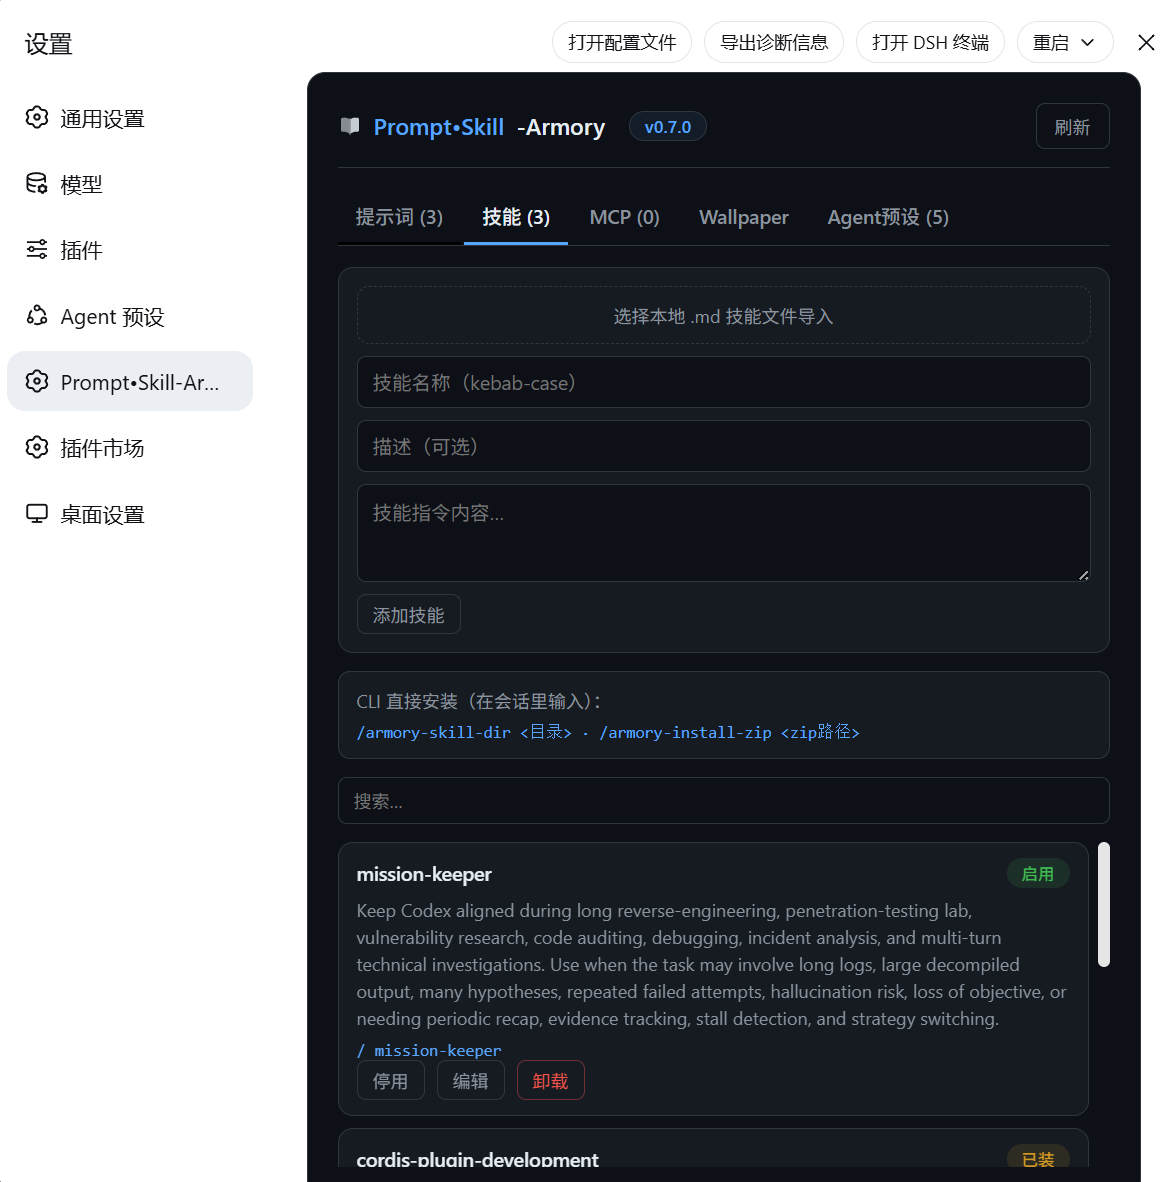
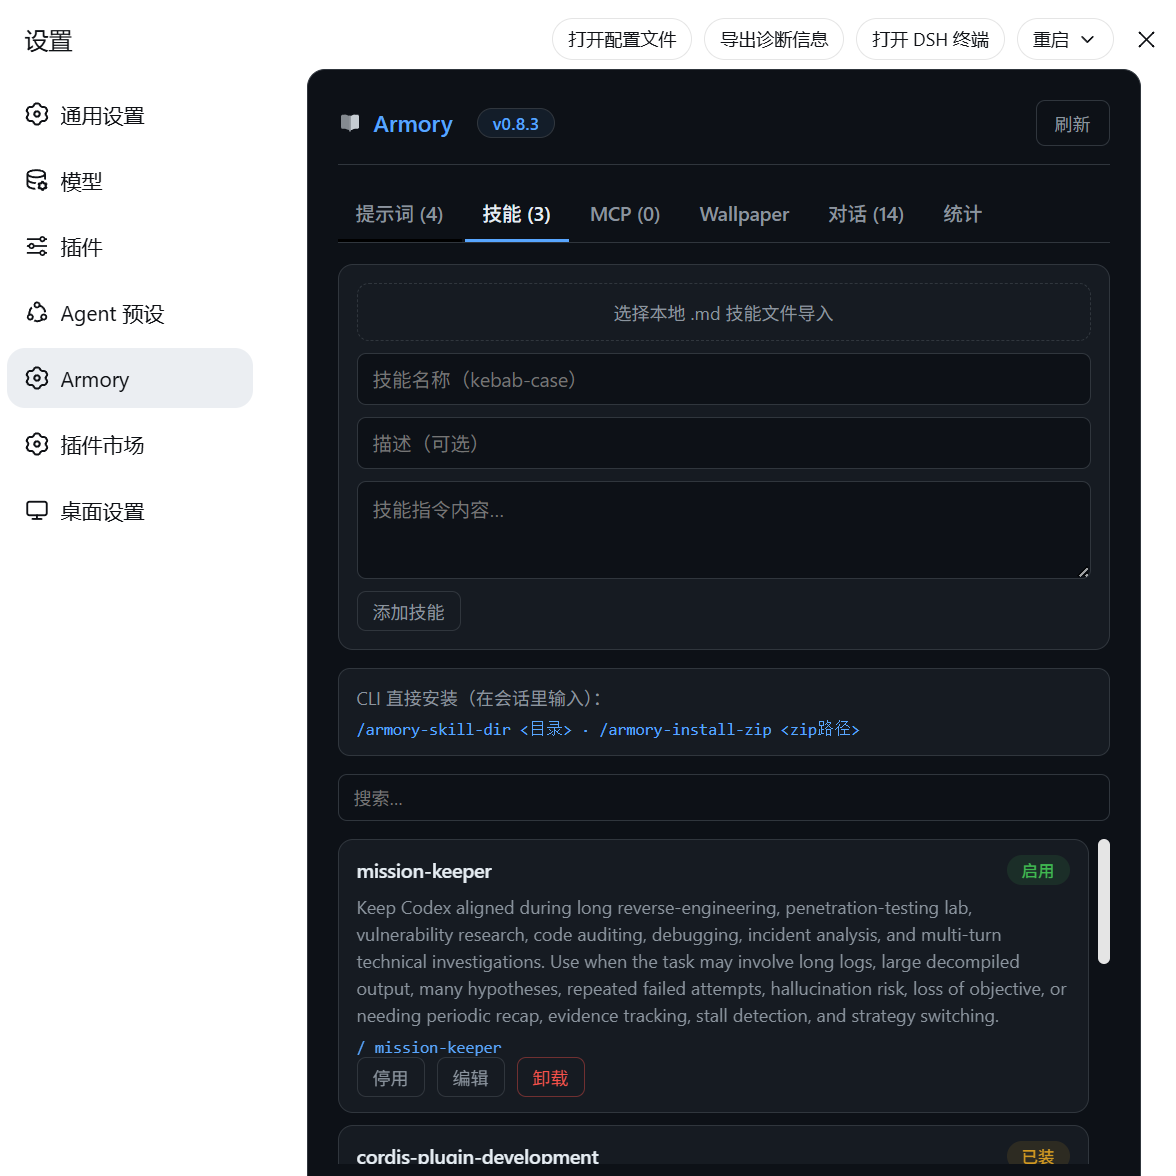
docs: refresh all docs for v0.9.0 (Armory, 6 tabs, stats, MCP, conversations); update screenshots

diff --git a/README.en.md b/README.en.md
@@ -6,10 +6,11 @@
 
 [**中文**](./README.md) · **English**
 
-![Prompt•Skill-Armory management panel](docs/preview/preview-1.png)
+![Armory management panel](docs/preview/preview-1.png)
 
 | <img src="docs/preview/preview-2.png" width="220"/> | <img src="docs/preview/preview-3.png" width="220"/> | <img src="docs/preview/preview-4.png" width="220"/> | <img src="docs/preview/preview-5.png" width="220"/> |
 |--|--|--|--|
+| <img src="docs/preview/preview-6.png" width="220"/> | <img src="docs/preview/preview-7.png" width="220"/> | | |
 
 ![version](https://img.shields.io/badge/version-0.9.0-00ff9c)
 ![license](https://img.shields.io/badge/license-MIT-blue)
@@ -18,10 +19,10 @@
 
 ```
 ✦ Armory  v0.9.0
-┌─────────┬─────────┬─────┬────────────┬─────────┐
-│ Prompts │ Skills  │ MCP │  Wallpaper │ Presets │
-│ global  │ merged  │ hub │ wallpaper  │ roster  │
-└─────────┴─────────┴─────┴────────────┴─────────┘
+┌─────────┬─────────┬─────┬────────────┬──────┬──────┐
+│ Prompts │ Skills  │ MCP │  Wallpaper │ Chat │ Stats│
+│ global  │ merged  │ hub │  wallpaper │ sync │ usage│
+└─────────┴─────────┴─────┴────────────┴──────┴──────┘
 ```
 
 ---
@@ -31,7 +32,8 @@
 - [🚀 Quick start](#-quick-start)
 - [✨ Features](#-features)
 - [🖥 Platform support](#-platform-support)
-- [🧰 Using a skill in chat](#-using-a-skill-in-chat)
+- [🔄 One-click update](#-one-click-update)
+- [🗑 Uninstall](#-uninstall)
 - [🏗 Architecture](#-architecture)
 - [📦 Packages](#-packages)
 - [🗂 Repository layout](#-repository-layout)
@@ -40,6 +42,7 @@
 - [📚 Docs](#-docs)
 - [🤝 Contributing / Upstream](#-contributing--upstream)
 - [📄 License](#-license)
+- [🔗 Friends](#-friends)
 
 ---
 
@@ -59,9 +62,9 @@ npx prompt-skill-armory uninstall
 
 The installer automatically:
 
-1. Locates DSH home
+1. Locates the DSH home
 2. Ensures `web` + `desktop` profiles exist
-3. Installs both plugin packages (Host + Web panel (five tabs: prompts/skills/MCP/wallpaper/presets)
+3. Installs both plugin packages (Host + Web panel)
 4. Configures the Host bundle
 5. Mounts the panel (profile `cordis.patch.yml`)
 6. Health-checks settings (prevents 4MB bloat)
@@ -76,26 +79,24 @@ pnpm dsh web
 
 (Or simply relaunch the DSH Desktop client.)
 
-Open **Settings → Prompt•Skill-Armory** (book icon).
+Open **Settings → Armory** (book icon).
 
-> **Requirement**: DeepSeek Harness runtime already installed (`dsh web` or the Desktop client). This is a plugin for DSH — it does not bundle the runtime itself.
+> **Requirement**: a DeepSeek Harness runtime (`dsh web` or desktop client) must already be installed — this is a DSH plugin and does not bundle the runtime.
 
 ---
 
 ## ✨ Features
 
-- **Prompts (global)** — CRUD, enable/disable, set default. Enabled prompts are injected into **every agent's system prompt** via `ctx.systemPrompt.section`.
-- **Skills (merged)** — one list: panel-installed (edit/toggle/uninstall) + locally scanned (managed), with invoke hint `/name`.
-- **Skill install paths**
-  - Manual entry
-  - `.md` file picker
-  - CLI in a session: `/armory-skill-dir <dir>`, `/armory-install-zip <zip>`
-- **Agent presets** — browse the roster, set default.
-- **MCP tool servers** — add/edit/remove stdio or HTTP MCP servers; enabling connects them automatically, with per-server status, tool list, and a connect test.
-- **Wallpaper (global background & effects)** — upload a local image/video (bytes on disk, id-only in settings) or paste an image URL; live-tune opacity / scrim / glass / blur / fit; **set separately on web vs desktop**.
-- **Composer hint-line style** — enable / color / size / gradient presets for the below-input hint and stats line.
-- **Bilingual UI** (Simplified Chinese / English).
-- **Book icon** in the settings sidebar.
+- **Prompts (global)** — CRUD, enable/disable, set default. Enabled prompts are injected into every agent's system prompt via `ctx.systemPrompt.section`.
+- **Skills (merged)** — one list: panel-installed (edit/toggle/uninstall) + locally scanned (managed), with an invoke hint (`/name`).
+- **Skill installation** — manual entry, `.md` file picker, or in-chat commands `/armory-skill-dir <dir>` and `/armory-install-zip <zip>`.
+- **MCP tool servers** — add/edit/remove stdio or HTTP(S) servers; enabling auto-connects them with per-server status, a live tool list, and a one-click connect test.
+- **Wallpaper (global background & effects)** — upload a local image/video (bytes on disk, id-only in settings) or paste an image URL; tune opacity/scrim/glass/blur/fit live; **set separately on web vs desktop**.
+- **Composer hint-line style** — enable/color/size/gradient presets for the below-input hint and stats line.
+- **Conversation import / export** — export selected sessions as a zip (attachments + workspace included) and restore them on another machine; the list shows title, project and time; **real delete** (removes the session directory + index entry).
+- **Usage stats (cc-switch style)** — range filter (all / 30d / 7d / today); input / output / cache-read / cache-write tokens, cache-hit rate, cost estimate; request log (time / project / in-out / cache / cost / latency / first-token / status); provider (project) stats and model stats; SVG dual-axis trend chart (24h split for today).
+- **Bilingual UI** (简体中文 / English).
+- **Settings sidebar book icon**.
 
 ## 🖥 Platform support
 
@@ -104,70 +105,85 @@ Open **Settings → Prompt•Skill-Armory** (book icon).
 | `dsh web` (official) | ✅ | ✅ |
 | DSH Desktop client | ✅ | ✅ |
 
-Works via profile composition (the installer mounts the panel into each profile's `cordis.patch.yml`) — no fork of the client needed.
+Achieved via profile composition (the installer mounts the panel into each profile's `cordis.patch.yml`) — no client fork needed.
+
+## 🔄 One-click update
+
+Every time the panel opens it queries npm for the latest `prompt-skill-armory` version; when a newer version exists a banner appears:
+
+> New version vX.Y.Z (current v0.9.0) [Update now]
+
+Clicking "Update now" makes the Host re-run the official installer in place → "Update complete, please restart the client".
+
+## 🗑 Uninstall
+
+```bash
+npx prompt-skill-armory uninstall
+```
+
+Removes both plugin packages, the Host bundle, the panel mount, and cleans up wallpaper/export dirs (prompts/skills settings remain in `settings.yaml`; delete the `switchblade` namespace manually for a full wipe).
 
 ## 🧰 Using a skill in chat
 
-Type `/` then the skill name:
+Type `/` + skill name in the input:
 
 ```
 /code-review
 /mission-keeper
 ```
 
-The skill body is injected; the agent follows it. Model-invocable skills are also visible to the model.
+The skill body is injected and the agent executes it; `modelInvocable` skills can also be called autonomously by the model.
 
 ## 🏗 Architecture
 
 ```
 ┌──────────────────────────────────────────────────────┐
-│                    DSH runtime                       │
+│                    DSH Runtime                       │
 │                                                      │
 │  ┌─────────────┐   RPC/connection   ┌─────────────┐  │
-│  │  Web panel   │◄──────────────────►│  Host service│  │
+│  │  Web panel   │◄──────────────────►│  Host svc    │  │
 │  │ ui-switchblade│   api.skills.*    │ switchblade │  │
 │  │  (settings)  │   api.settings.*  │  (bundle)   │  │
+│  │             │   /api/armory/*    │  + routes   │  │
 │  └─────────────┘                    └──────┬──────┘  │
 │                                            │         │
 │                              ctx.systemPrompt.section│
 │                              ctx.skills.register     │
-│                                            │         │
-│                              ┌─────────────┴──────┐  │
-│                              │ each agent's system │  │
-│                              │ prompt / skill      │  │
-│                              │ registry / presets  │  │
-│                              └────────────────────┘  │
+│                              /api/armory/* (convers. │
+│                              stats / wallpaper /     │
+│                              update / uninstall)     │
 └──────────────────────────────────────────────────────┘
 ```
 
-- **Host service** (`switchblade` bundle) owns prompt/skill/preset CRUD + persistence, injecting globally via `ctx.systemPrompt.section` and registering skills via `ctx.skills.register`.
-- **Web panel** (`ui-switchblade`) talks to the Host over connection RPC (`api.skills.list`, `api.agentPresets.list`, `api.settings.mutate/describe`) — never touches DSH internals directly.
-- **Installer** wires both into DSH via profile composition — web and desktop share the same mechanism.
+- **Host service** (`switchblade` bundle) owns prompt/skill/preset CRUD and persistence, global injection via `ctx.systemPrompt.section`, and skill registration via `ctx.skills.register`; it also serves `/api/armory/*` routes (conversation import/export, session delete, usage stats, wallpaper upload, version check, one-click update).
+- **Web panel** (`ui-switchblade`) talks to the Host via connection RPC (`api.skills.list`, `api.settings.mutate/describe`) and `/api/armory/*` routes — never touching DSH internals directly.
+- **Installer** composes both into DSH via profiles — web and desktop share the same mechanism.
 
 ## 📦 Packages
 
-| Package | Role |
+| Package | Purpose |
 |---|---|
-| `prompt-skill-armory` | npm installer (CLI) |
-| `@deepseek-ai/dsh-switchblade` | Host service (prompts/skills/commands/MCP/wallpaper persistence + upload routes) |
-| `@deepseek-ai/dsh-client-ui-switchblade` | Web panel |
+| `prompt-skill-armory` | npm installer CLI (with uninstall) |
+| `@deepseek-ai/dsh-switchblade` | Host service (prompts/skills/commands/MCP/wallpaper/conversations/stats + routes) |
+| `@deepseek-ai/dsh-client-ui-switchblade` | Web panel (six tabs: prompts/skills/MCP/wallpaper/chat/stats) |
 
 ## 🗂 Repository layout
 
 ```
 prompt-skill-armory/
-├── cli.cjs                  # one-command install CLI
+├── cli.cjs                  # one-command install/uninstall CLI
 ├── package.json             # npm installer package
-├── packages/                # shipped plugin builds (lib+src+manifest)
+├── packages/                # built plugins (lib+src+manifest)
 │   ├── switchblade/         # @deepseek-ai/dsh-switchblade (Host)
 │   └── client-ui-switchblade/ # @deepseek-ai/dsh-client-ui-switchblade (Web)
-├── plugin-src/              # plugin source mirrors
-├── scripts/build-shipped.mjs # sync builds from a DSH checkout
+├── plugin-src/              # plugin source mirror
+├── scripts/build-shipped.mjs # sync build outputs from a DSH checkout
 ├── demo/demo.html           # UI preview (mock data)
-├── README.md                # this file (中文) · README.en.md (English)
+├── docs/preview/            # real panel screenshots
+├── README.md                # this file (zh) · README.en.md (en)
 ├── UPSTREAM.md              # upstream integration guide
 ├── CHANGELOG.md             # version history
-├── PUBLISHING.md            # publishing guide
+├── PUBLISHING.md            # release guide
 ├── TESTING.md               # testing guide
 ├── LICENSE                  # MIT
 └── .github/workflows/ci.yml # CI quality gate
@@ -175,47 +191,53 @@ prompt-skill-armory/
 
 ## 🛠 Development
 
-After editing source, rebuild shipped packages:
+After editing source, rebuild the shipped package:
 
 ```bash
 node scripts/build-shipped.mjs <path-to-deepseek-harness>
 ```
 
-Version bumps touch three places:
+Keep three places in sync on version bumps:
 
 1. `packages/*/package.json` `version`
 2. `ARMORY_VERSION` (panel constant)
 3. `CHANGELOG.md`
 
-Then rebuild the client bundle so the badge updates.
+Then rebuild the client bundle so the version badge updates.
 
 ## ❓ FAQ
 
 **Q: Why is my client sidebar icon a gear instead of a book?**
-A: The desktop client's packaged `SettingsRoot` hardcodes the icon mapping. Via the npm installer's profile composition the panel works fine, but the book icon requires upstream integration (see [`UPSTREAM.md`](./UPSTREAM.md)).
+A: The desktop client's packaged `SettingsRoot` hard-codes its icon map. The npm installer's profile composition works fine, but the book icon needs an upstream merge (see [`UPSTREAM.md`](./UPSTREAM.md)).
 
-**Q: Will this affect my existing config / sessions?**
-A: No. The plugin only adds a `switchblade` settings namespace and leaves everything else untouched. The installer also health-checks settings to prevent bloat.
+**Q: Imported conversations don't show on the other machine?**
+A: Restart the DSH client after import so it rescans the session list. If the target project path differs, fill in the "target project key" (e.g. `--C-Users-xxx--`) before importing so sessions land in the right project.
 
-**Q: Does it work offline?**
-A: Yes. Copy the npm tarball to the target machine and `npm install <tarball>`; or `file:`-install a local build (see [`TESTING.md`](./TESTING.md)).
+**Q: Is the cost in stats accurate?**
+A: The cost is an **estimate** (built-in per-token pricing: input $0.3/M, output $1.2/M, cache-read $0.03/M, cache-write $0.6/M), not a real bill.
+
+**Q: Does this affect my existing config / sessions?**
+A: No. The plugin only adds the `switchblade` settings namespace and leaves other config untouched. The installer also health-checks settings against bloat.
+
+**Q: Offline install?**
+A: Yes — copy the npm tarball to the target machine and `npm install <tarball>`, or install the local build via `file:` (see [`TESTING.md`](./TESTING.md)).
 
 **Q: Where do skills come from?**
-A: Three ways: manual entry, `.md` file picker, or in-session `/armory-skill-dir` (directory) / `/armory-install-zip` (zip). All land in the merged Skills tab for management.
+A: Three ways: manual entry, `.md` file picker, or in-chat `/armory-skill-dir` (directory) / `/armory-install-zip` (zip). Once installed they all appear in the Skills tab.
 
 ## 📚 Docs
 
-| Doc | Description |
+| Doc | Purpose |
 |---|---|
-| [`README.md`](./README.md) | Chinese readme |
-| [`TESTING.md`](./TESTING.md) | Local functional testing (no publish needed) |
-| [`PUBLISHING.md`](./PUBLISHING.md) | Publishing a new version |
-| [`UPSTREAM.md`](./UPSTREAM.md) | Upstream integration (book-icon PR) |
-| [`CHANGELOG.md`](./CHANGELOG.md) | Full version history |
+| [`README.en.md`](./README.en.md) | English readme |
+| [`TESTING.md`](./TESTING.md) | local functional tests (no publish needed) |
+| [`PUBLISHING.md`](./PUBLISHING.md) | release guide |
+| [`UPSTREAM.md`](./UPSTREAM.md) | upstream integration (book-icon PR) |
+| [`CHANGELOG.md`](./CHANGELOG.md) | full version history |
 
 ## 🤝 Contributing / Upstream
 
-See [`UPSTREAM.md`](./UPSTREAM.md) — how to upstream the panel natively into `deepseek-ai/deepseek-harness` and `anywhere-labs/dsh-desktop` (book icon in the desktop sidebar).
+See [`UPSTREAM.md`](./UPSTREAM.md) — how to get the panel natively into `deepseek-ai/deepseek-harness` and `anywhere-labs/dsh-desktop` (book icon in the client sidebar).
 
 ## 📄 License
 

diff --git a/UPSTREAM.en.md b/UPSTREAM.en.md
@@ -1,6 +1,6 @@
 # Upstream Integration Guide
 
-> This document lists every change to ship **Prompt•Skill-Armory** natively in the DeepSeek Harness ecosystem, so the panel appears in both `dsh web` and the DSH Desktop client — including the book icon in the settings sidebar.
+> This document lists every change to ship **Armory** natively in the DeepSeek Harness ecosystem, so the panel appears in both `dsh web` and the DSH Desktop client — including the book icon in the settings sidebar.
 
 [**中文**](./UPSTREAM.md) · **English**
 
@@ -16,7 +16,7 @@ Two upstream repos:
 
 New package `@deepseek-ai/dsh-switchblade`:
 - `src/index.ts` — function plugin (exports `name`/`inject`/`apply`)
-- `src/switchblade.ts` — `Switchblade extends Service` (`static inject = ['loader','skills','systemPrompt']`): prompt CRUD (globally injected via `ctx.systemPrompt.section`), skill install/manage, preset handling
+- `src/switchblade.ts` — `Switchblade extends Service` (`static inject = ['loader','skills','systemPrompt']`): prompt CRUD (globally injected via `ctx.systemPrompt.section`), skill install/manage, MCP server bridging, conversation import/export, usage stats, wallpaper upload, and update routes
 - `src/commands.ts` — `/armory` command family (incl. `/sw-*` aliases)
 - `src/invariant.ts` / `src/types.ts` / `src/patch.ts`
 - `cordis.patch.yml` — bundle manifest (`dsh.bundle.patch`)
@@ -25,7 +25,7 @@ New package `@deepseek-ai/dsh-switchblade`:
 ### A2. Add the Web panel `packages/client/ui-switchblade`
 
 New package `@deepseek-ai/dsh-client-ui-switchblade`:
-- `src/client/SwitchbladeSection.tsx` — settings panel (3 tabs: Prompts/Skills/Agent Presets)
+- `src/client/SwitchbladeSection.tsx` — settings panel (6 tabs: Prompts/Skills/MCP/Wallpaper/Chat/Stats)
 - `src/client/store.ts` — connection-RPC data layer
 - `src/client/locales.ts` — zh/en
 - `src/client/index.ts` — registers `settings.section` + `LocaleNamespaceMap`

diff --git a/UPSTREAM.md b/UPSTREAM.md
@@ -1,6 +1,6 @@
 # 官方合入指南
 
-> 本文档列出把 **Prompt•Skill-Armory** 原生内置进 DeepSeek Harness 生态所需的全部改动，让面板在 `dsh web` 和 DSH Desktop 客户端都原生显示——包括侧边栏书图标。
+> 本文档列出把 **Armory** 原生内置进 DeepSeek Harness 生态所需的全部改动，让面板在 `dsh web` 和 DSH Desktop 客户端都原生显示——包括侧边栏书图标。
 
 **中文** · [**English**](./UPSTREAM.en.md)
 
@@ -16,7 +16,7 @@
 
 新包 `@deepseek-ai/dsh-switchblade`:
 - `src/index.ts` — 函数插件（导出 `name`/`inject`/`apply`）
-- `src/switchblade.ts` — `Switchblade extends Service`（`static inject = ['loader','skills','systemPrompt']`）: 提示词 CRUD（经 `ctx.systemPrompt.section` 全局注入）、技能安装/管理、预设处理
+- `src/switchblade.ts` — `Switchblade extends Service`（`static inject = ['loader','skills','systemPrompt']`）: 提示词 CRUD（经 `ctx.systemPrompt.section` 全局注入）、技能安装/管理、MCP 服务器连接、对话导入导出、使用统计、壁纸上传与一键更新路由
 - `src/commands.ts` — `/armory` 命令族（含 `/sw-*` 别名）
 - `src/invariant.ts` / `src/types.ts` / `src/patch.ts`
 - `cordis.patch.yml` — bundle 清单（`dsh.bundle.patch`）
@@ -25,7 +25,7 @@
 ### A2. 添加 Web 面板 `packages/client/ui-switchblade`
 
 新包 `@deepseek-ai/dsh-client-ui-switchblade`:
-- `src/client/SwitchbladeSection.tsx` — 设置面板（3 tab: 提示词/技能/Agent预设）
+- `src/client/SwitchbladeSection.tsx` — 设置面板（6 tab: 提示词/技能/MCP/Wallpaper/对话/统计）
 - `src/client/store.ts` — connection-RPC 数据层
 - `src/client/locales.ts` — 中/英
 - `src/client/index.ts` — 注册 `settings.section` + `LocaleNamespaceMap`

diff --git a/CHANGELOG.md b/CHANGELOG.md
@@ -1,6 +1,6 @@
 # 更新日志
 
-> **Prompt•Skill-Armory**（`@deepseek-ai/dsh-switchblade` + `@deepseek-ai/dsh-client-ui-switchblade`）的所有重要变更。
+> **Armory**（`@deepseek-ai/dsh-switchblade` + `@deepseek-ai/dsh-client-ui-switchblade`）的所有重要变更。
 
 **中文** · [**English**](./CHANGELOG.en.md)
 

diff --git a/CHANGELOG.en.md b/CHANGELOG.en.md
@@ -1,6 +1,6 @@
 # Changelog
 
-> All notable changes to **Prompt•Skill-Armory** (`@deepseek-ai/dsh-switchblade` + `@deepseek-ai/dsh-client-ui-switchblade`).
+> All notable changes to **Armory** (`@deepseek-ai/dsh-switchblade` + `@deepseek-ai/dsh-client-ui-switchblade`).
 
 [**中文**](./CHANGELOG.md) · **English**
 

diff --git a/PUBLISHING.en.md b/PUBLISHING.en.md
@@ -1,6 +1,6 @@
 # Publishing Guide
 
-> This guide covers publishing and distributing **Prompt•Skill-Armory** (0.5.5).
+> This guide covers publishing and distributing **Armory** (0.9.0).
 
 [**中文**](./PUBLISHING.md) · **English**
 

diff --git a/PUBLISHING.md b/PUBLISHING.md
@@ -1,6 +1,6 @@
 # 发布指南
 
-> 本文档说明如何发布与分发 **Prompt•Skill-Armory**（0.5.5）。
+> 本文档说明如何发布与分发 **Armory**（0.9.0）。
 
 **中文** · [**English**](./PUBLISHING.en.md)
 
